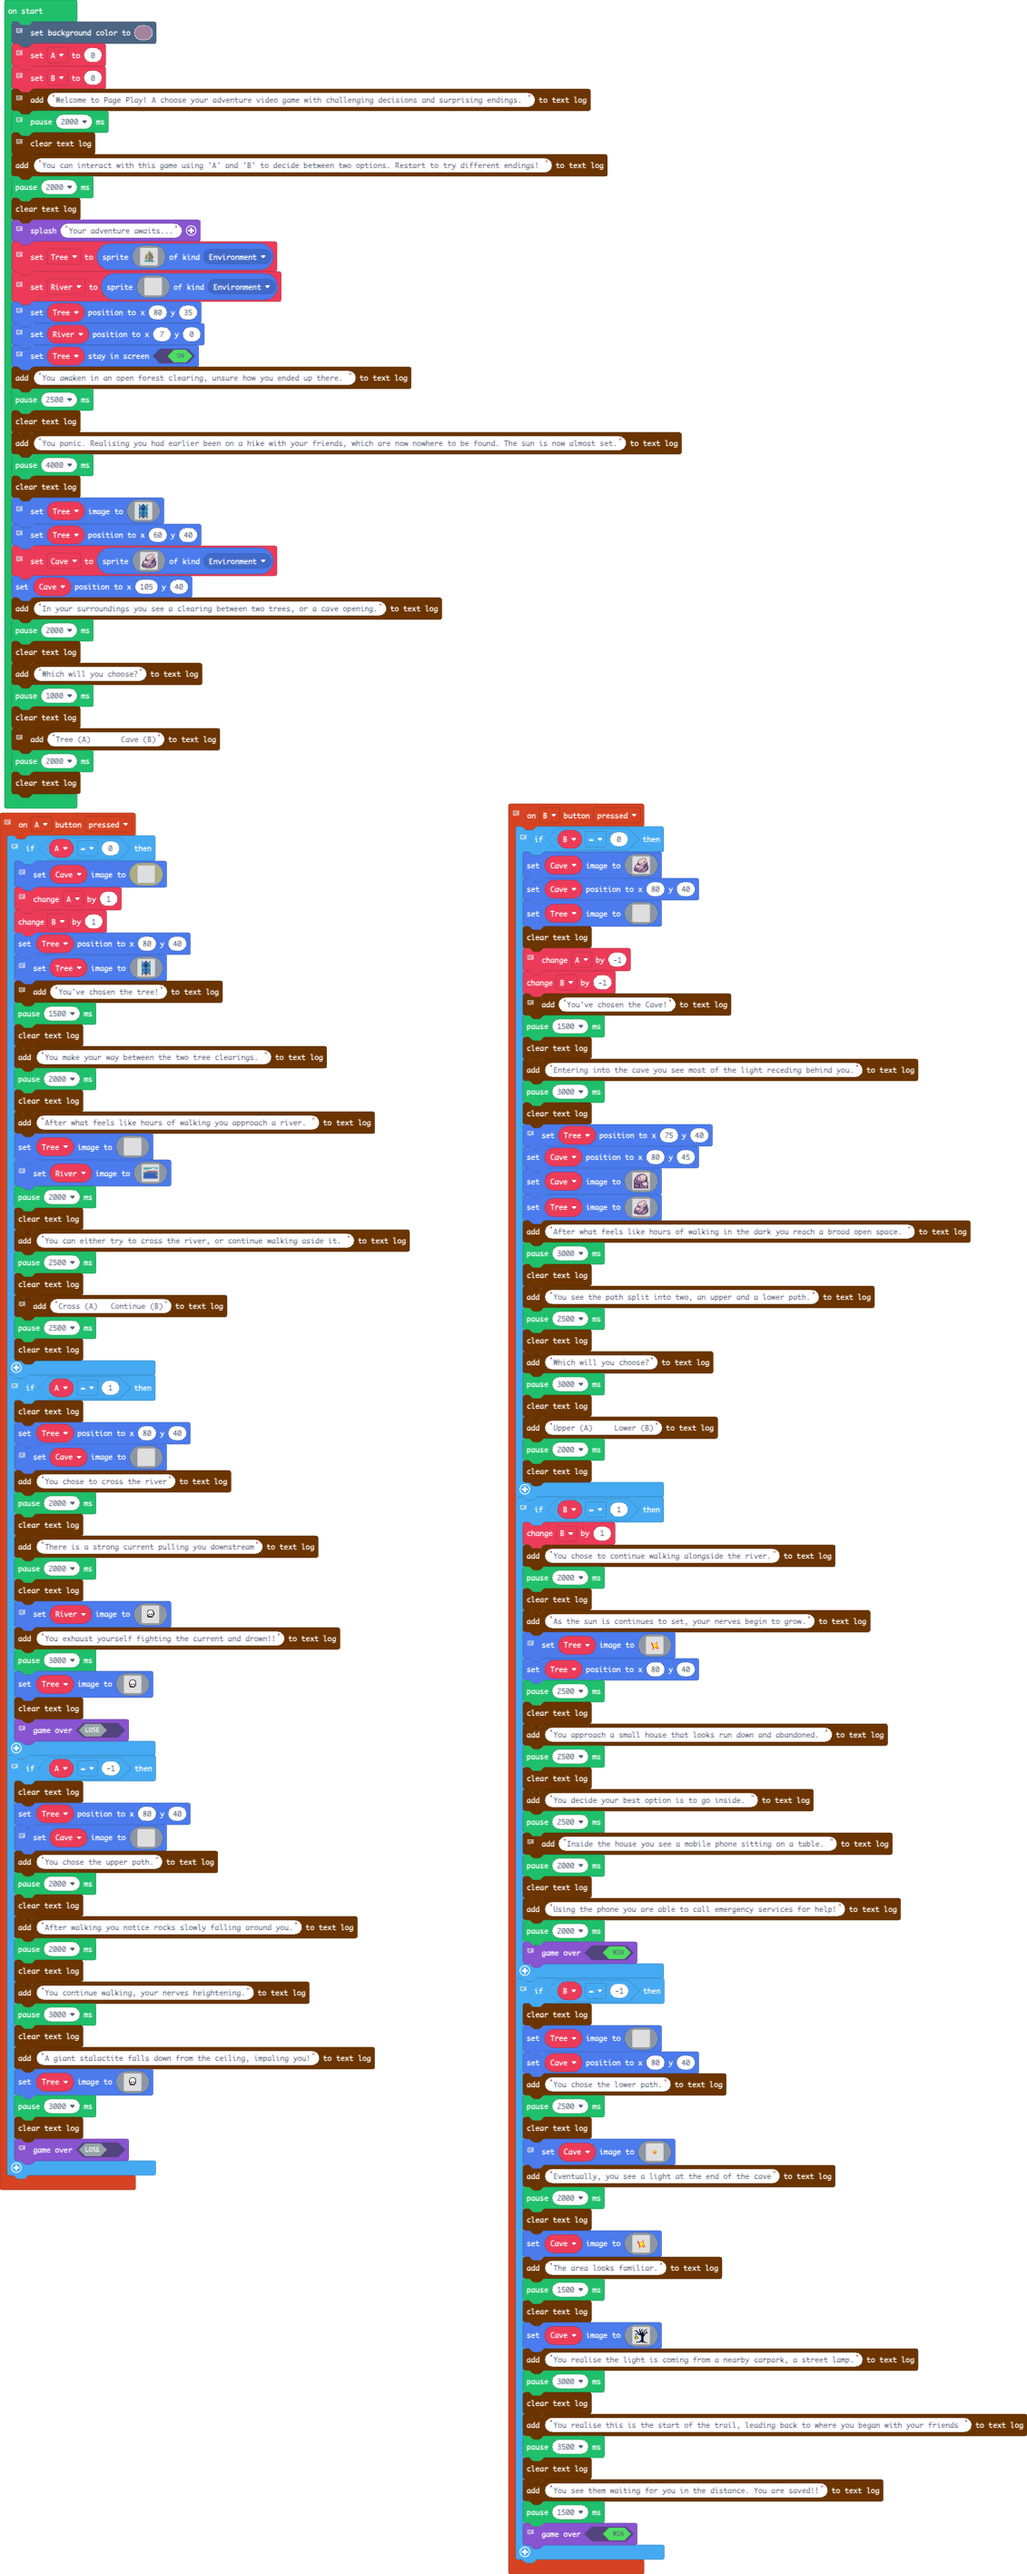
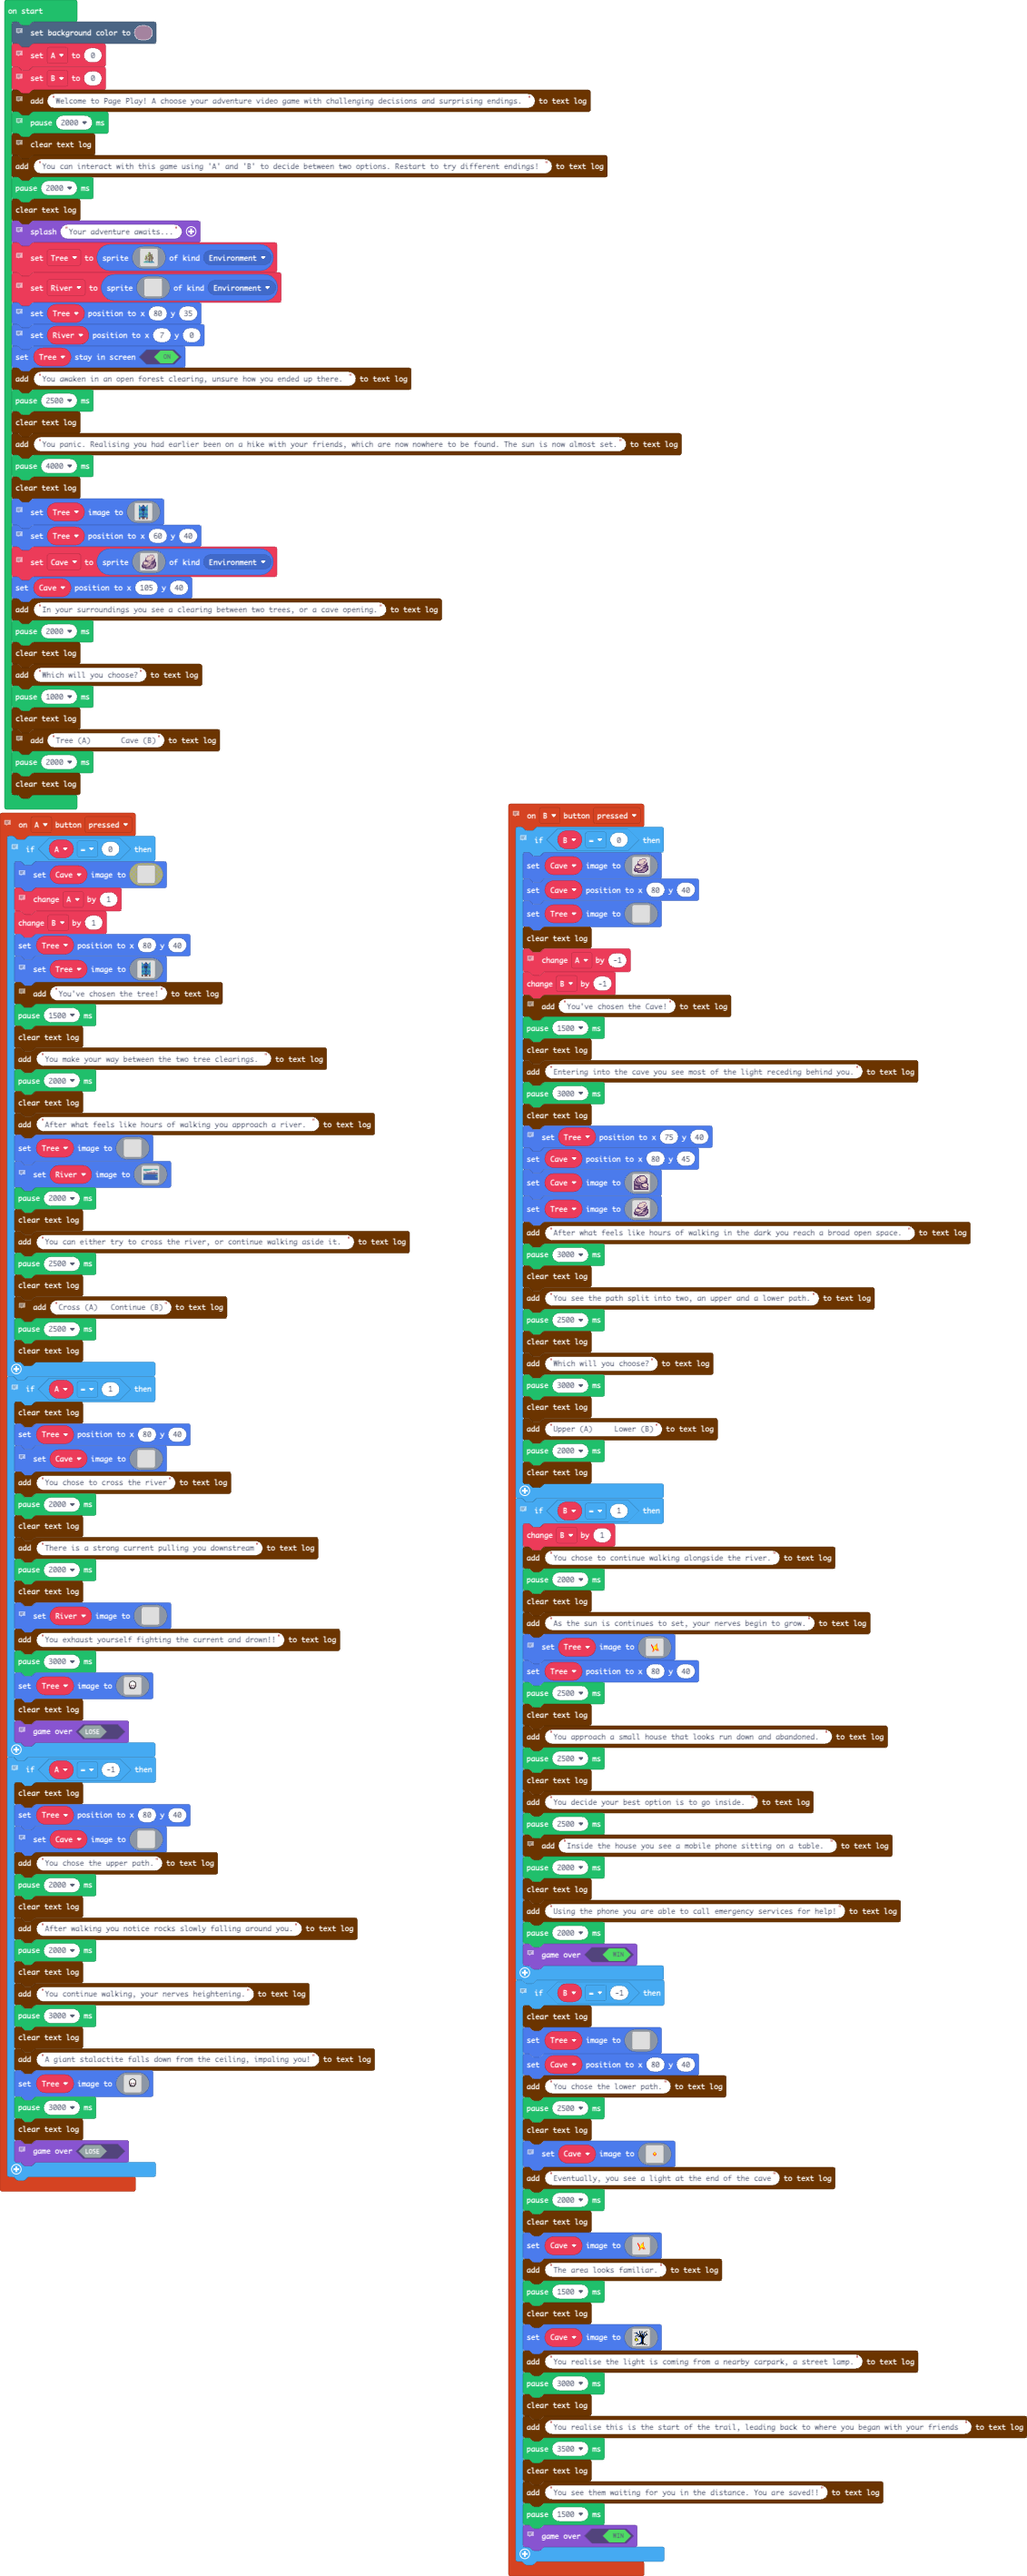
Final A2 Prototype

diff --git a/main.ts b/main.ts
@@ -415,7 +415,48 @@ controller.A.onEvent(ControllerButtonEvent.Pressed, function () {
         pause(2000)
         adventure.clearTextLog()
         // Setting the sprite to a skull to indicate the player has lost. 
-        River.setImage(assets.image`myImages.image0`)
+        River.setImage(img`
+            ........................
+            ........................
+            ........................
+            ........................
+            ........................
+            ........................
+            ........................
+            ........................
+            ........................
+            ........................
+            ........................
+            ........................
+            ........................
+            ........................
+            ........................
+            ........................
+            ........................
+            ........................
+            ........................
+            ........................
+            ........................
+            ........................
+            ........................
+            ........................
+            ........................
+            ........................
+            ........................
+            ........................
+            ........................
+            ........................
+            ........................
+            ........................
+            ........................
+            ........................
+            ........................
+            ........................
+            ........................
+            ........................
+            ........................
+            ........................
+            `)
         adventure.addToTextlog("You exhaust yourself fighting the current and drown!!")
         pause(3000)
         Tree.setImage(assets.image`myImages.image0`)

diff --git a/main.py b/main.py
@@ -1,9 +1,11 @@
 @namespace
 class SpriteKind:
     Environment = SpriteKind.create()
+# This is decided by the players first choice. As the player presses B (has chosen the cave route), it triggers this if conditional. The text dialogue continues, describing the players choice, sprites and offers the next set of choices. 
 
 def on_b_pressed():
     global A, B
+    # As the variable B is set at 0, it will only start from this position at the start of the game, after the player has chosen B for their first choice. 
     if B == 0:
         Cave.set_image(assets.image("""
             myImage
@@ -52,14 +54,17 @@ def on_b_pressed():
                         ........................
         """))
         adventure.clear_text_log()
+        # By decreasing A & B variables by one, it stops the other if conditional from being run. The negative numbers indicate that the player has first chosen B and sets up the further set of choices. 
         A += -1
         B += -1
+        # The dialogue continues for the cave choice. 
         adventure.add_to_textlog("You've chosen the Cave!")
         pause(1500)
         adventure.clear_text_log()
         adventure.add_to_textlog("Entering into the cave you see most of the light receding behind you.")
         pause(3000)
         adventure.clear_text_log()
+        # Moves the sprites to correlate with the next choice (the lower and upper path) 
         Tree.set_position(75, 40)
         Cave.set_position(80, 45)
         Cave.set_image(assets.image("""
@@ -80,22 +85,52 @@ def on_b_pressed():
         adventure.add_to_textlog("Upper (A)     Lower (B)")
         pause(2000)
         adventure.clear_text_log()
+    # Making use of the global variable, the next time the player presses B the game will check if the player has chosen A initially. Because B=1, it means they have chosen A initially this is the next subsequent choice. 
+    # A(first choice) -> B(second choice) 
     if B == 1:
         B += 1
         adventure.add_to_textlog("You chose to continue walking alongside the river.")
         pause(2000)
         adventure.clear_text_log()
         adventure.add_to_textlog("As the sun is continues to set, your nerves begin to grow.")
+        # This changes the appearance of the sprites, corresponding with the dialogue.
+        Tree.set_image(img("""
+            . . . . . . . . . . . . . . . . 
+                        . . . . . . . . . . . . . . . . 
+                        . . . . . . . . . . . . . . . . 
+                        . . . . . . . . . . . . . . . . 
+                        . . . . . . . . . . 4 . . . . . 
+                        . . . . 2 . . . . 4 4 . . . . . 
+                        . . . . 2 4 . . 4 5 4 . . . . . 
+                        . . . . . 2 4 d 5 5 4 . . . . . 
+                        . . . . . 2 5 5 5 5 4 . . . . . 
+                        . . . . . . 2 5 5 5 5 4 . . . . 
+                        . . . . . . 2 5 4 2 4 4 . . . . 
+                        . . . . . . 4 4 . . 2 4 4 . . . 
+                        . . . . . 4 4 . . . . . . . . . 
+                        . . . . . . . . . . . . . . . . 
+                        . . . . . . . . . . . . . . . . 
+                        . . . . . . . . . . . . . . . .
+        """))
+        Tree.set_position(80, 40)
         pause(2500)
         adventure.clear_text_log()
         adventure.add_to_textlog("You approach a small house that looks run down and abandoned. ")
         pause(2500)
         adventure.clear_text_log()
-        adventure.add_to_textlog("You can either choose to go inside, or continue walking in the direction you have been.")
-        pause(3000)
-        adventure.add_to_textlog("Enter (A)     Continue (B)")
+        adventure.add_to_textlog("You decide your best option is to go inside. ")
+        pause(2500)
+        # The dialogue informs the player of the two choices and the corresponding buttons. 
+        adventure.add_to_textlog("Inside the house you see a mobile phone sitting on a table. ")
         pause(2000)
         adventure.clear_text_log()
+        adventure.add_to_textlog("Using the phone you are able to call emergency services for help!")
+        pause(2000)
+        # This signals the end of the game and creates a splash screen that says the player has won. 
+        game.game_over(True)
+    # This if conditional checks if the global variable B is a negative, which would mean that the player has chosen B for their first choice. After pressing B the dialogue continues leading to a winning ending. 
+    # 
+    # B(first choice) -> A(second choice)
     if B == -1:
         adventure.clear_text_log()
         Tree.set_image(img("""
@@ -120,6 +155,7 @@ def on_b_pressed():
         adventure.add_to_textlog("You chose the lower path.")
         pause(2500)
         adventure.clear_text_log()
+        # The sprites continue to change to correspond with the dialogue. 
         Cave.set_image(img("""
             . . . . . . . . . . . . . . . . 
                         . . . . . . . . . . . . . . . . 
@@ -173,12 +209,17 @@ def on_b_pressed():
         adventure.clear_text_log()
         adventure.add_to_textlog("You see them waiting for you in the distance. You are saved!!")
         pause(1500)
+        # This signals the end of the game and creates a splash screen that says the player has won. 
         game.game_over(True)
 controller.B.on_event(ControllerButtonEvent.PRESSED, on_b_pressed)
 
+# This is decided by the players first choice. As the player presses A (has chosen the tree route), it triggers this if conditional. The text dialogue continues, describing the players choice, sprites and offers the next set of choices. 
+
 def on_a_pressed():
     global A, B
+    # As the variable A is set at 0, it will only start from this position at the start of the game, after the player has chosen A for their first choice. 
     if A == 0:
+        # Hides the cave image, as the player has chosen the tree route. 
         Cave.set_image(img("""
             ........................
                         ........................
@@ -221,9 +262,11 @@ def on_a_pressed():
                         ........................
                         ........................
         """))
+        # By increasing A & B variables by one, it stops the other if conditional from being run. The positive numbers indicate that the player has first chosen A and sets up the further set of choices. 
         A += 1
         B += 1
         Tree.set_position(80, 40)
+        # Sets the tree to the main sprite.
         Tree.set_image(img("""
             ........................
                         8..........ff..........8
@@ -266,6 +309,7 @@ def on_a_pressed():
                         feef....feeefeef....feee
                         ffef....fefeffef....fefe
         """))
+        # The dialogue continues for the first choice, 
         adventure.add_to_textlog("You've chosen the tree!")
         pause(1500)
         adventure.clear_text_log()
@@ -315,6 +359,7 @@ def on_a_pressed():
                         ........................
                         ........................
         """))
+        # Sets the scene to being a river, as the dialogue changes the sprite coincides. 
         River.set_image(assets.image("""
             myImage3
         """))
@@ -323,12 +368,15 @@ def on_a_pressed():
         adventure.add_to_textlog("You can either try to cross the river, or continue walking aside it. ")
         pause(2500)
         adventure.clear_text_log()
+        # The dialogue informs the player of the two choices and the corresponding buttons. 
         adventure.add_to_textlog("Cross (A)   Continue (B)")
         pause(2500)
         adventure.clear_text_log()
+    # Making use of the global variable, the next time the player presses A the game will check if the player has chosen A initially. Because A=1, it means they have chosen A a second time, which leads to a losing ending. A(first choice) -> A(second choice) 
     if A == 1:
         adventure.clear_text_log()
         Tree.set_position(80, 40)
+        # This hides the cave as the player has made another choice. 
         Cave.set_image(img("""
             ........................
                         ........................
@@ -377,8 +425,48 @@ def on_a_pressed():
         adventure.add_to_textlog("There is a strong current pulling you downstream")
         pause(2000)
         adventure.clear_text_log()
-        River.set_image(assets.image("""
-            myImages.image0
+        # Setting the sprite to a skull to indicate the player has lost. 
+        River.set_image(img("""
+            ........................
+                        ........................
+                        ........................
+                        ........................
+                        ........................
+                        ........................
+                        ........................
+                        ........................
+                        ........................
+                        ........................
+                        ........................
+                        ........................
+                        ........................
+                        ........................
+                        ........................
+                        ........................
+                        ........................
+                        ........................
+                        ........................
+                        ........................
+                        ........................
+                        ........................
+                        ........................
+                        ........................
+                        ........................
+                        ........................
+                        ........................
+                        ........................
+                        ........................
+                        ........................
+                        ........................
+                        ........................
+                        ........................
+                        ........................
+                        ........................
+                        ........................
+                        ........................
+                        ........................
+                        ........................
+                        ........................
         """))
         adventure.add_to_textlog("You exhaust yourself fighting the current and drown!!")
         pause(3000)
@@ -386,10 +474,15 @@ def on_a_pressed():
             myImages.image0
         """))
         adventure.clear_text_log()
+        # This signals the end of the game and creates a splash screen that says the player has lost. 
         game.game_over(False)
+    # This if conditional checks if the global variable A is a negative, which would mean that the player has chosen B for their first choice. After pressing A this dialogue appears and shows a losing ending. 
+    # 
+    # B(first choice) -> A(second choice)
     if A == -1:
         adventure.clear_text_log()
         Tree.set_position(80, 40)
+        # This hides the cave as the player has made another choice. 
         Cave.set_image(img("""
             ........................
                         ........................
@@ -447,6 +540,7 @@ def on_a_pressed():
         """))
         pause(3000)
         adventure.clear_text_log()
+        # This signals the end of the game and creates a splash screen that says the player has lost. 
         game.game_over(False)
 controller.A.on_event(ControllerButtonEvent.PRESSED, on_a_pressed)
 
@@ -455,17 +549,24 @@ River: Sprite = None
 Tree: Sprite = None
 B = 0
 A = 0
-# Begin of introduction
+# Beginning of introduction, setting the background colour for the rest of the game 
 scene.set_background_color(11)
+# Creating global variable A to signify the player choosing A initially and sets it to 0 to show that no choice has been made yet. 
 A = 0
+# Creating global variable B to signify the player choosing A initially and sets it to 0 to show that no choice has been made yet. 
 B = 0
+# The first introductory text, adding a sentence of text to the text log that scrolls from the bottom of screen
 adventure.add_to_textlog("Welcome to Page Play! A choose your adventure video game with challenging decisions and surprising endings. ")
+# Pauses to allow time for each dialogue to appear and to be read 
 pause(2000)
+# Clears text log to remove old dialogue and create space for the next line of text 
 adventure.clear_text_log()
 adventure.add_to_textlog("You can interact with this game using 'A' and 'B' to decide between two options. Restart to try different endings! ")
 pause(2000)
 adventure.clear_text_log()
+# Creates a splash screen that signifies the start of the game, waiting for players to press A to begin 
 game.splash("Your adventure awaits...")
+# Creates the first sprite for option A (tree path), that will later be changed. The kind is set to environment to describe that it will act as a sprite for each option. 
 Tree = sprites.create(img("""
         ...................................................................
             ...................................................................
@@ -554,6 +655,7 @@ Tree = sprites.create(img("""
             ...................................................................
     """),
     SpriteKind.Environment)
+# Creates the first sprite for option B (cave path), that will later be changed. The kind is set to environment to describe that it will act as a sprite for each option. 
 River = sprites.create(img("""
         . . . . . . . . . . . . . . . . 
             . . . . . . . . . . . . . . . . 
@@ -573,7 +675,9 @@ River = sprites.create(img("""
             . . . . . . . . . . . . . . . .
     """),
     SpriteKind.Environment)
+# Set the sprites position to the middle of the screen, as it is a small sprite that will change its appearance for each consequential choice.
 Tree.set_position(80, 35)
+# The river is a large background sprite that needs to cover the entire screen, therefore its X and Y position is very low to appear in the bottom right corner. 
 River.set_position(7, 0)
 Tree.set_stay_in_screen(True)
 adventure.add_to_textlog("You awaken in an open forest clearing, unsure how you ended up there. ")
@@ -582,6 +686,7 @@ adventure.clear_text_log()
 adventure.add_to_textlog("You panic. Realising you had earlier been on a hike with your friends, which are now nowhere to be found. The sun is now almost set.")
 pause(4000)
 adventure.clear_text_log()
+# The first change in sprite appearance as the dialogue change, the sprite changes to match. 
 Tree.set_image(img("""
     ........................
         8..........ff..........8
@@ -624,7 +729,9 @@ Tree.set_image(img("""
         feef....feeefeef....feee
         ffef....fefeffef....fefe
 """))
+# Moves the sprite to an appropriate place to be seen 
 Tree.set_position(60, 40)
+# Changing the appearance of the cave to show the two options, as the player makes the first decision 
 Cave = sprites.create(assets.image("""
     myImage
 """), SpriteKind.Environment)
@@ -635,6 +742,7 @@ adventure.clear_text_log()
 adventure.add_to_textlog("Which will you choose?")
 pause(1000)
 adventure.clear_text_log()
+# The dialogue informs the player of the two choices and the corresponding buttons. 
 adventure.add_to_textlog("Tree (A)       Cave (B)")
 pause(2000)
 adventure.clear_text_log()
